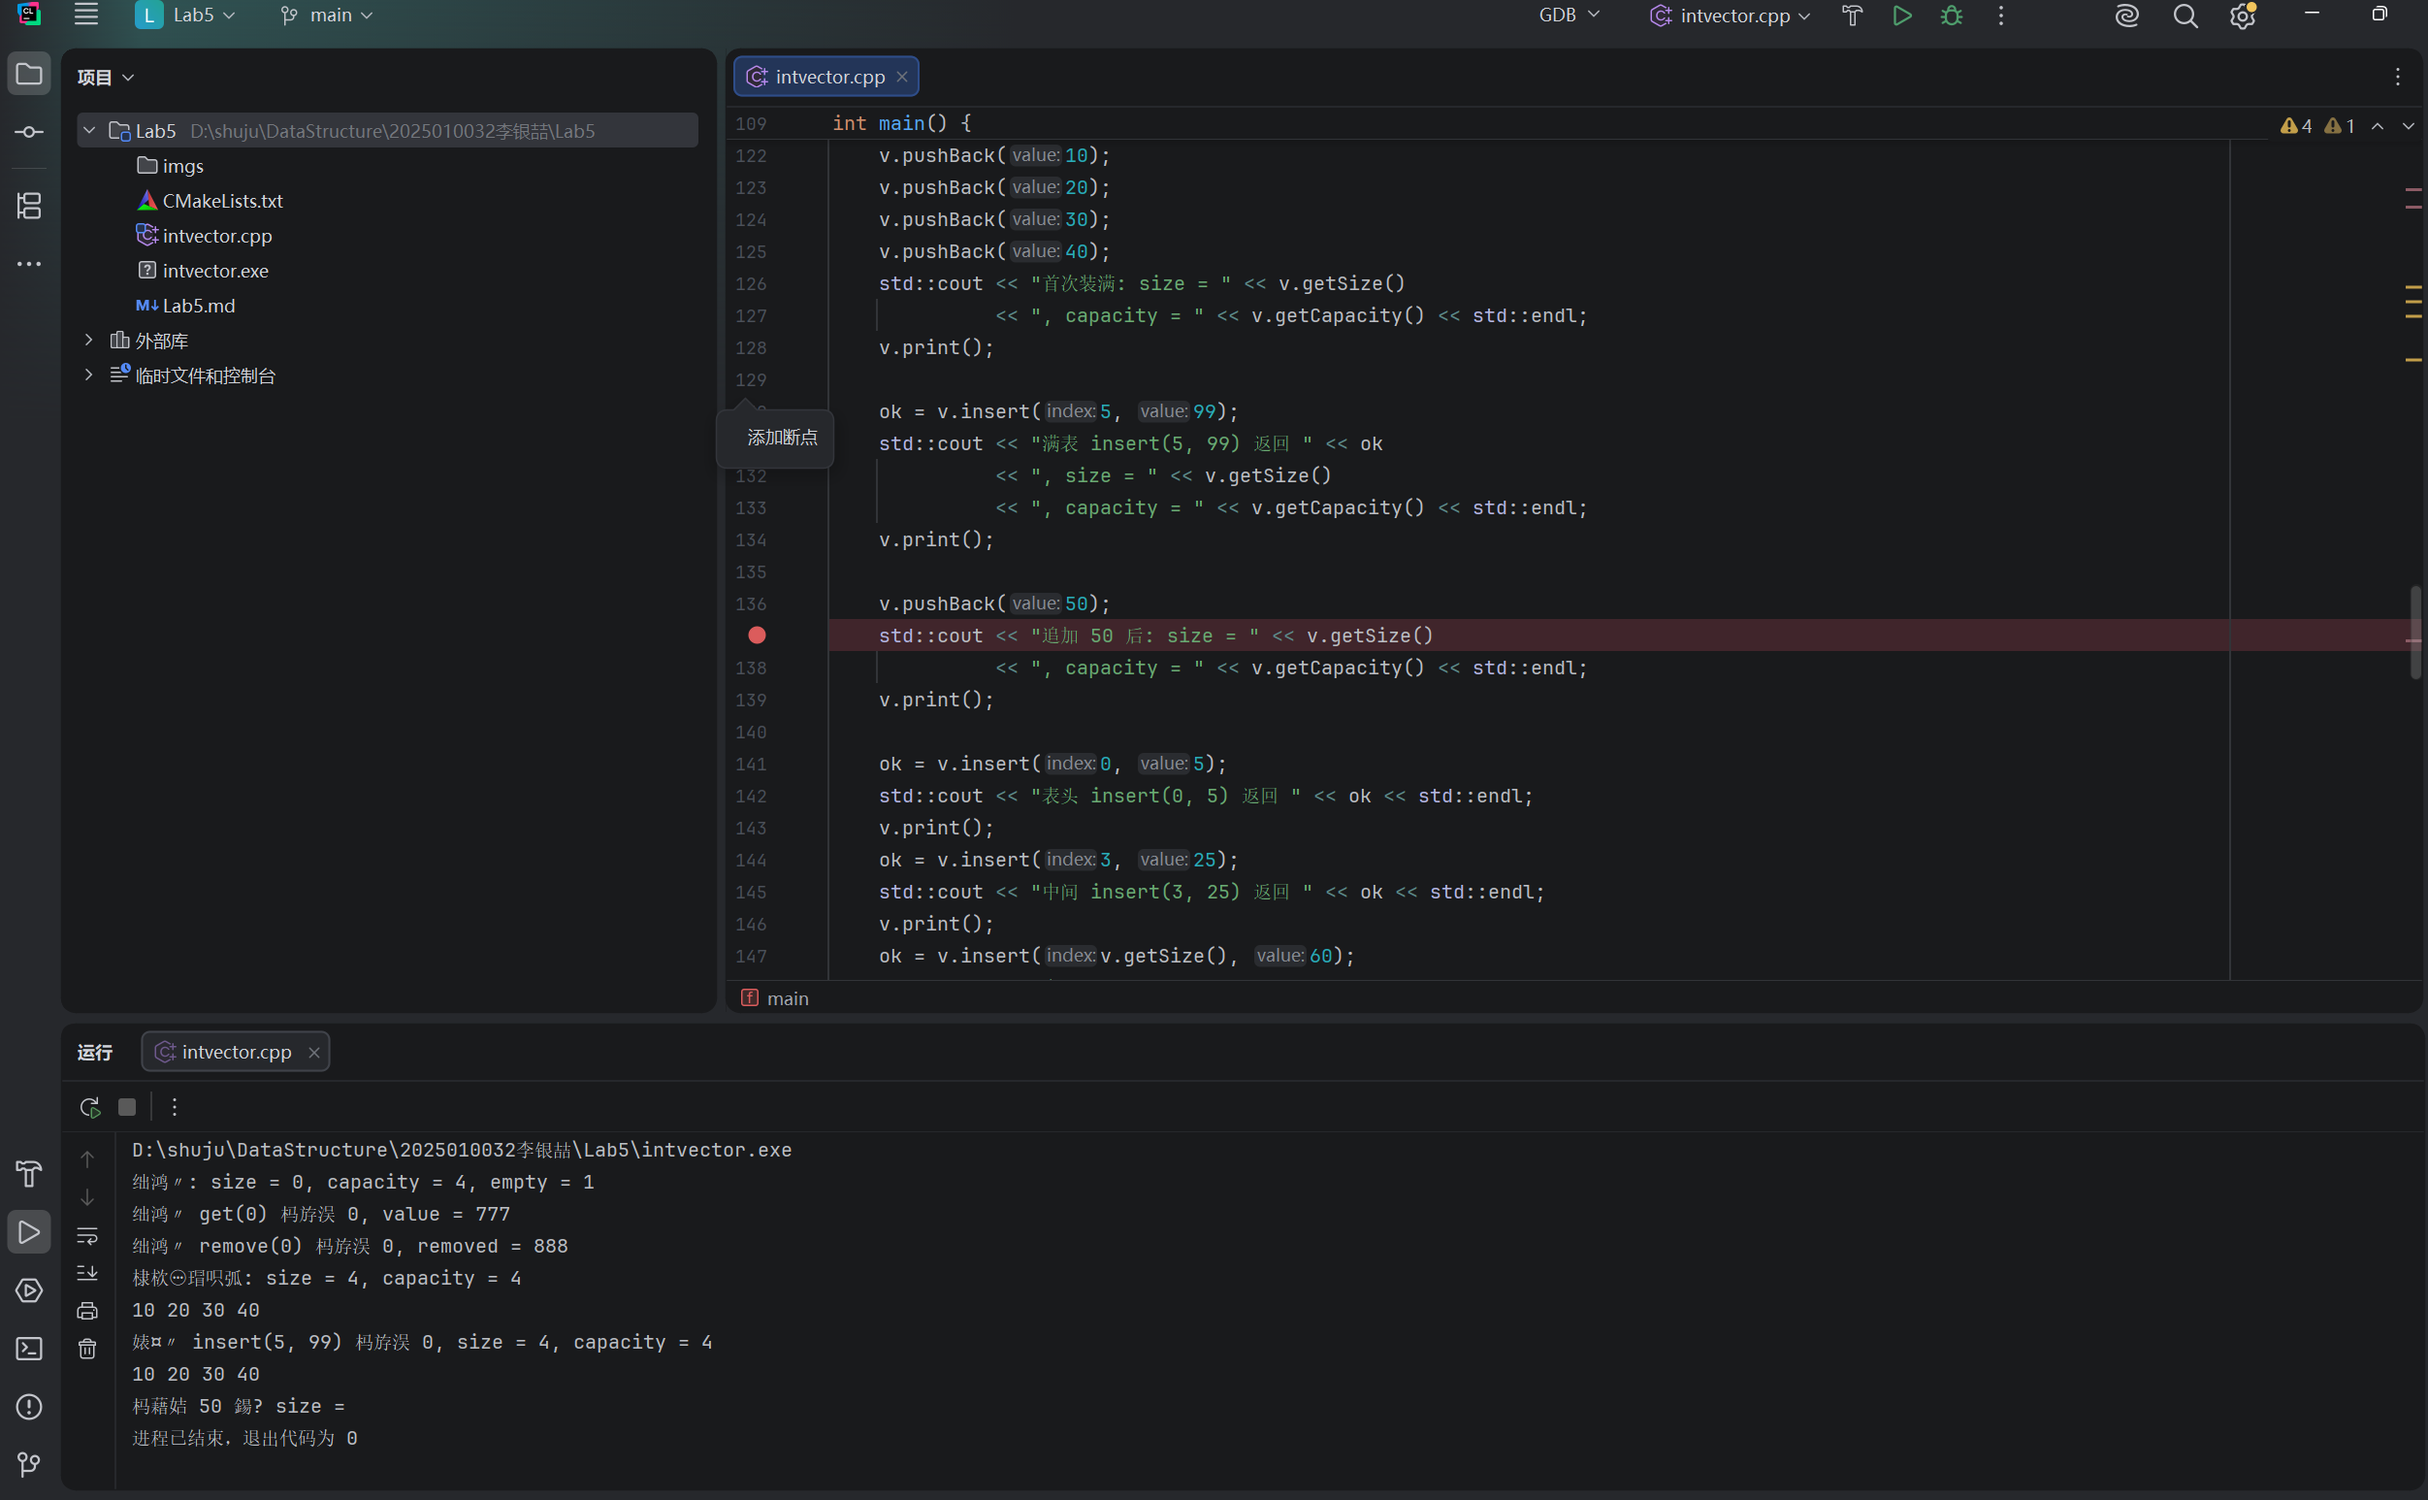
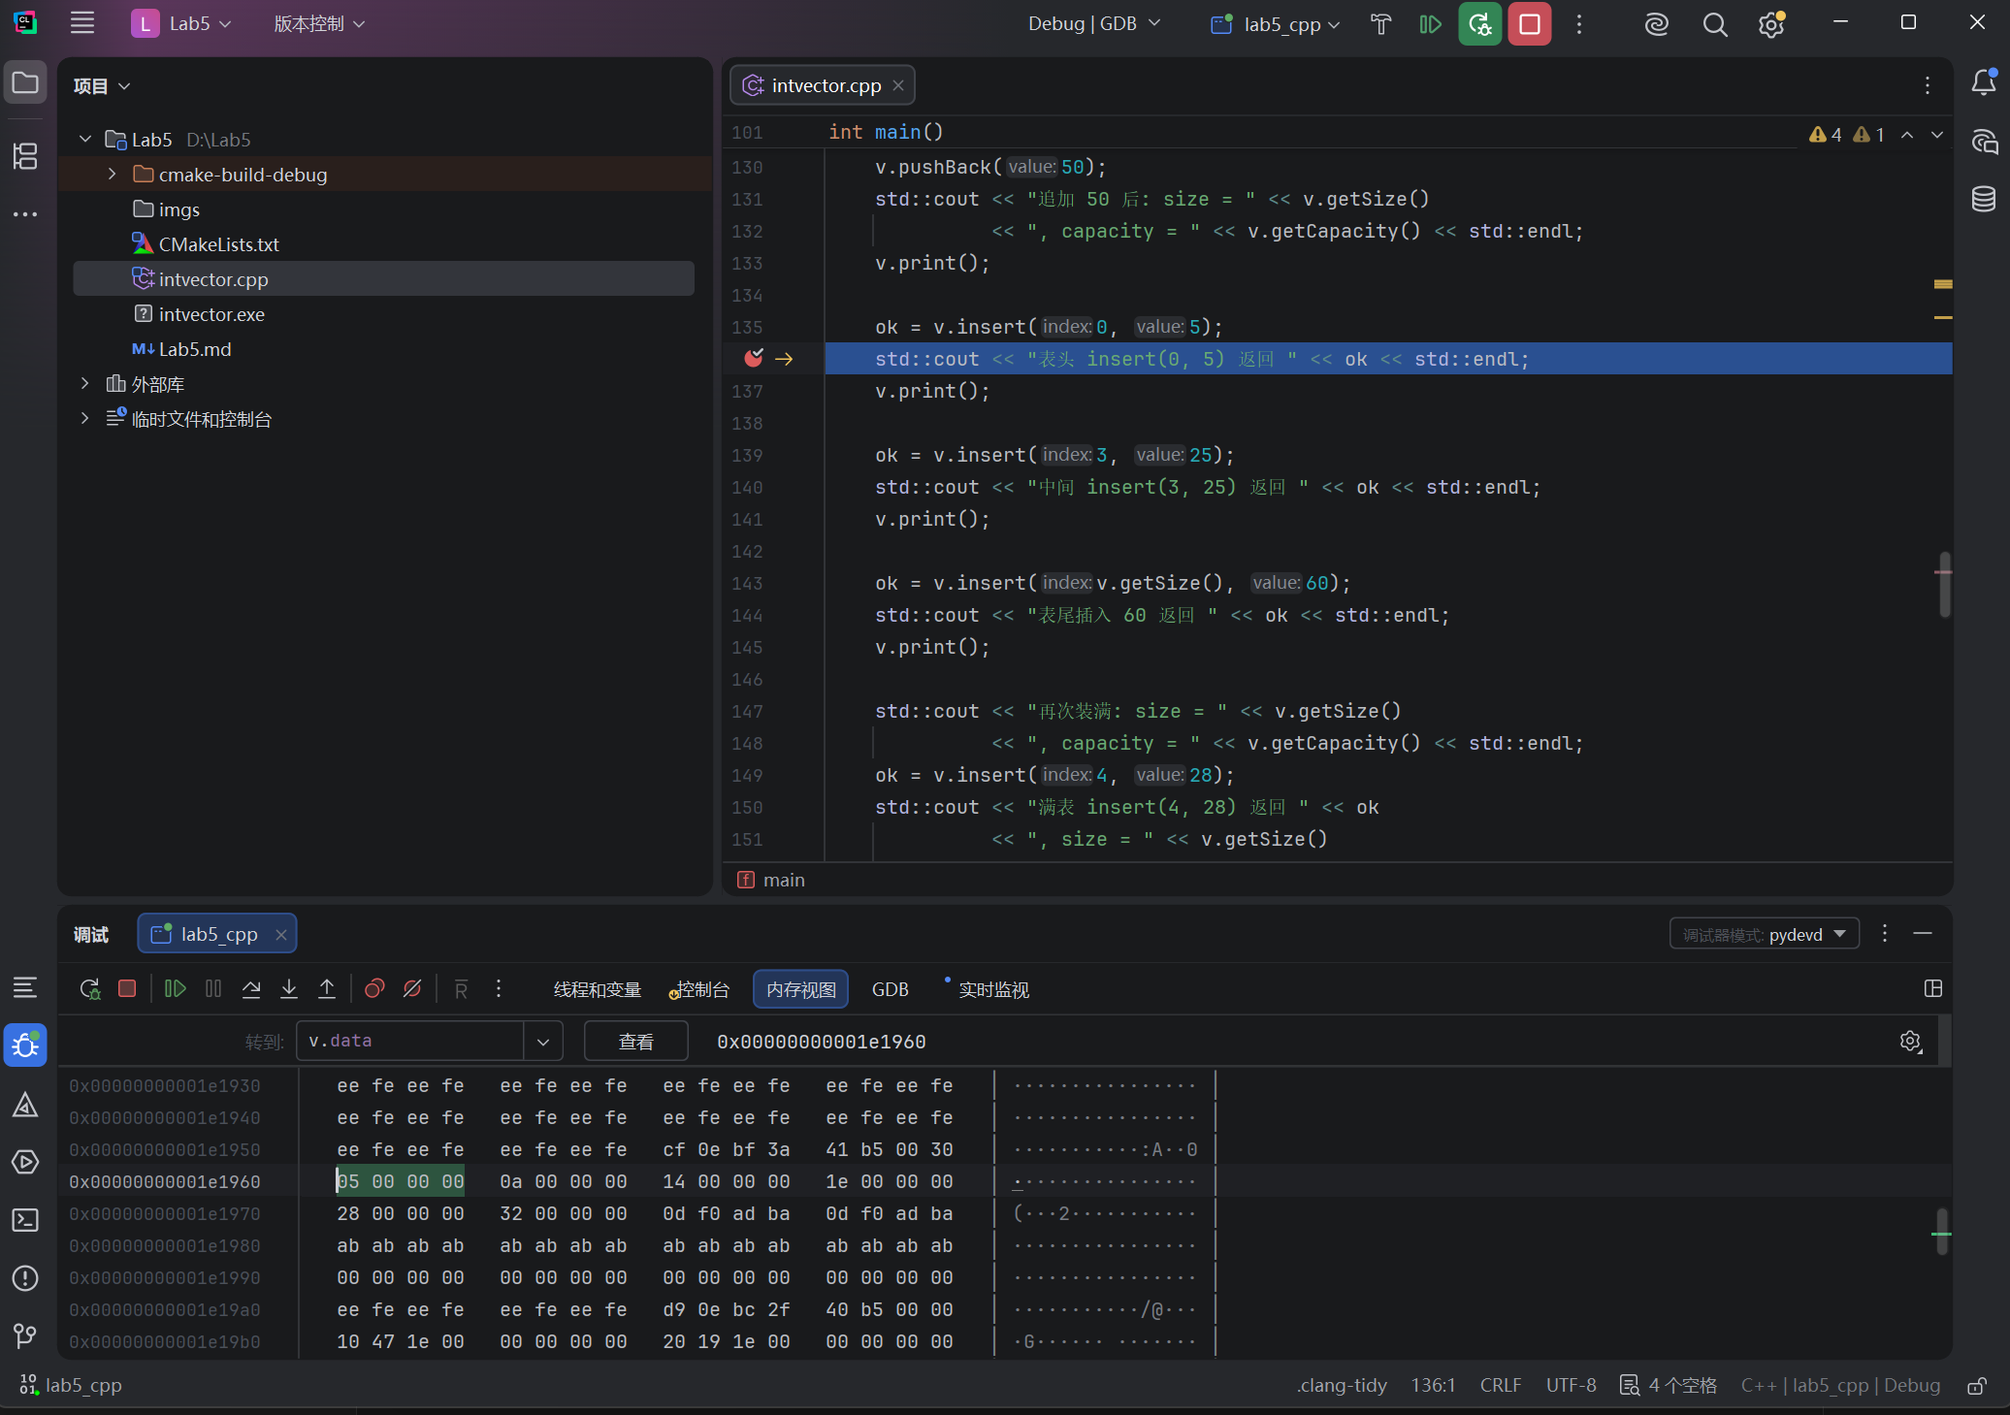
完成第五次作业

diff --git a/2025010032李银喆/Lab5/Lab5.md b/2025010032李银喆/Lab5/Lab5.md
@@ -11,7 +11,7 @@ cmake_minimum_required(VERSION 3.20)
 project(Lab5 C CXX)
 
 set(CMAKE_C_STANDARD 11)
-set(CMAKE_CXX_STANDARD 17)
+set(CMAKE1_CXX_STANDARD 17)
 
 add_executable(lab5_cpp intvector.cpp)
 ```
